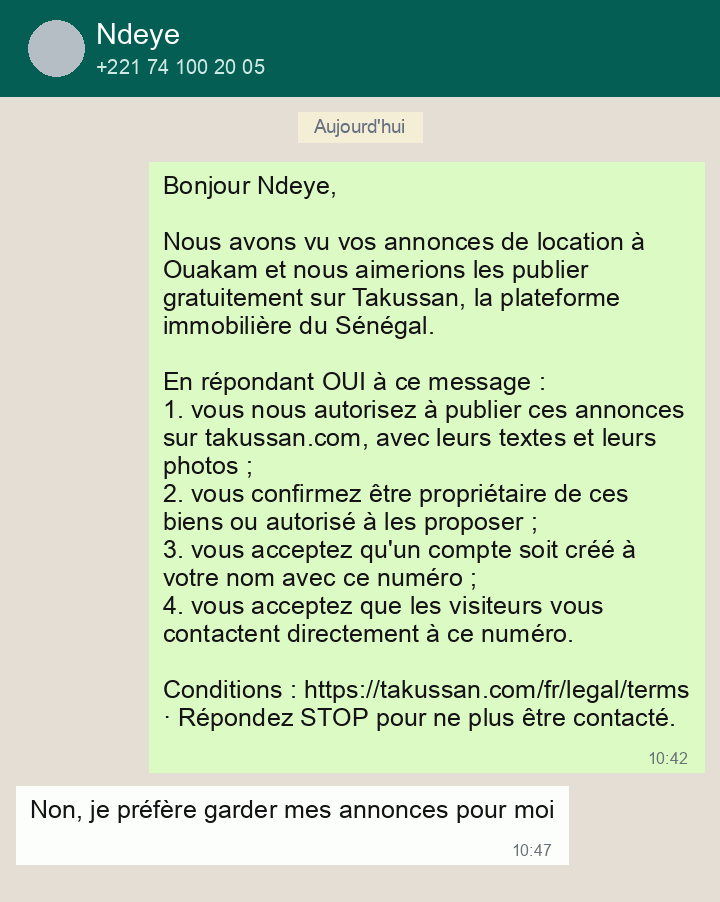
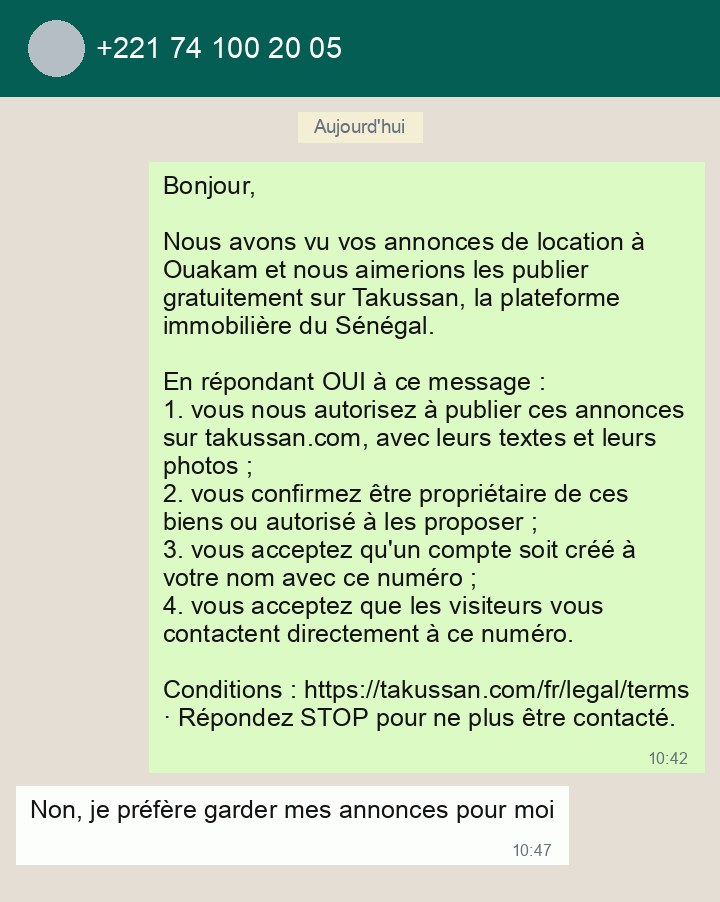
fix(api): Radar — le jeu d'évaluation envoie le numéro en E.164 compact comme le job, le cas 014 est ambigu, un cas sans nom d'annonceur (TCK-2388)

Changed region(s): [[0.1222, 0.031, 0.4889, 0.0931], [0.3361, 0.1863, 0.4583, 0.2173]]

diff --git a/takussan-api/resources/ai/evals/radar.verification_accord/render-captures.php b/takussan-api/resources/ai/evals/radar.verification_accord/render-captures.php
@@ -20,6 +20,7 @@
  * `*gras*` de WhatsApp sont rendus sans astérisques, comme l'écran de l'expéditeur.
  */
 
+use App\Ai\Agents\RadarConsentVerification;
 use App\Services\Radar\ConsentMessageComposer;
 use Illuminate\Contracts\Console\Kernel;
 
@@ -27,8 +28,6 @@ require __DIR__.'/../../../../vendor/autoload.php';
 $app = require __DIR__.'/../../../../bootstrap/app.php';
 $app->make(Kernel::class)->bootstrap();
 config(['app.frontend_url' => 'https://takussan.com']);
-
-use App\Ai\Agents\RadarConsentVerification;
 
 const WIDTH = 720;
 const MARGIN = 16;
@@ -55,11 +54,13 @@ if (! function_exists('imagettftext')) {
 $resume = 'vos annonces de location à Ouakam';
 
 /**
- * `shown` : le numéro que l'en-tête de la conversation affiche ; `phone` : celui que la vérification attend.
+ * `shown` : le numéro que l'en-tête de la conversation affiche ; `phone` : celui que la vérification attend, écrit
+ * lisible ici et envoyé SANS espaces (E.164 compact, comme `$advertiser->phone` dans le job). `name` null : un
+ * annonceur sans nom — l'en-tête n'affiche que le numéro, le message dit « Bonjour, » et l'entrée porte `inconnu`.
  * `message` : `full` (envoyé entier), `truncated` (capture coupée avant les clauses) ou `absent` (la capture ne montre
  * que la réponse). Attendus : ce que `fields.json` note.
  *
- * @var list<array{name: string, phone: string, shown?: string, message: string, reply: string, classification: string, number_matches: bool, clauses: list<int>}> $scenarios
+ * @var list<array{name: ?string, phone: string, shown?: string, message: string, reply: string, classification: string, number_matches: bool, clauses: list<int>}> $scenarios
  */
 $scenarios = [
     // Accord (3)
@@ -68,7 +69,7 @@ $scenarios = [
     ['name' => 'Mariama', 'phone' => '+221 74 100 20 03', 'message' => 'full', 'reply' => 'Ok vous pouvez', 'classification' => 'consent', 'number_matches' => true, 'clauses' => [1, 2, 3, 4]],
     // Refus (2)
     ['name' => 'Cheikh', 'phone' => '+221 74 100 20 04', 'message' => 'full', 'reply' => 'Non merci, je ne veux pas que mes annonces soient publiées.', 'classification' => 'refusal', 'number_matches' => true, 'clauses' => [1, 2, 3, 4]],
-    ['name' => 'Ndeye', 'phone' => '+221 74 100 20 05', 'message' => 'full', 'reply' => 'Non, je préfère garder mes annonces pour moi', 'classification' => 'refusal', 'number_matches' => true, 'clauses' => [1, 2, 3, 4]],
+    ['name' => null, 'phone' => '+221 74 100 20 05', 'message' => 'full', 'reply' => 'Non, je préfère garder mes annonces pour moi', 'classification' => 'refusal', 'number_matches' => true, 'clauses' => [1, 2, 3, 4]],
     // STOP (2)
     ['name' => 'Ousmane', 'phone' => '+221 74 100 20 06', 'message' => 'full', 'reply' => 'STOP', 'classification' => 'stop', 'number_matches' => true, 'clauses' => [1, 2, 3, 4]],
     ['name' => 'Aissatou', 'phone' => '+221 74 100 20 07', 'message' => 'full', 'reply' => 'Stop svp, ne me contactez plus', 'classification' => 'stop', 'number_matches' => true, 'clauses' => [1, 2, 3, 4]],
@@ -81,8 +82,8 @@ $scenarios = [
     // Numéro discordant (2) : l'en-tête montre un autre numéro, la réponse est « OUI »
     ['name' => 'Seynabou', 'phone' => '+221 74 100 20 12', 'shown' => '+221 74 900 30 12', 'message' => 'full', 'reply' => 'OUI', 'classification' => 'consent', 'number_matches' => false, 'clauses' => [1, 2, 3, 4]],
     ['name' => 'Pape', 'phone' => '+221 74 100 20 13', 'shown' => '+221 74 900 30 13', 'message' => 'full', 'reply' => "Ok d'accord", 'classification' => 'consent', 'number_matches' => false, 'clauses' => [1, 2, 3, 4]],
-    // Clauses absentes (2) : la capture ne montre que la réponse, ou un message coupé avant les clauses
-    ['name' => 'Binta', 'phone' => '+221 74 100 20 14', 'message' => 'absent', 'reply' => 'OUI', 'classification' => 'consent', 'number_matches' => true, 'clauses' => []],
+    // Clauses absentes (2) : la capture ne montre que la réponse (« OUI » à on ne sait quoi : `ambiguous`), ou un message coupé avant les clauses (le début du message est visible : `consent`)
+    ['name' => 'Binta', 'phone' => '+221 74 100 20 14', 'message' => 'absent', 'reply' => 'OUI', 'classification' => 'ambiguous', 'number_matches' => true, 'clauses' => []],
     ['name' => 'Alioune', 'phone' => '+221 74 100 20 15', 'message' => 'truncated', 'reply' => 'OUI', 'classification' => 'consent', 'number_matches' => true, 'clauses' => []],
 ];
 
@@ -131,7 +132,7 @@ $wrap = function (string $text, int $max) use ($width): array {
 foreach ($scenarios as $i => $scenario) {
     $n = sprintf('%03d', $i + 1);
     $first = $scenario['name'];
-    $sent = $composer->compose('fr', "Bonjour {$first},", $resume);
+    $sent = $composer->compose('fr', $first === null ? 'Bonjour,' : "Bonjour {$first},", $resume);
     $shown = $scenario['shown'] ?? $scenario['phone'];
 
     // Ce que la capture montre du message : entier, coupé avant les clauses (salutation et présentation), ou rien.
@@ -167,8 +168,12 @@ foreach ($scenarios as $i => $scenario) {
     imagefilledrectangle($image, 0, 0, WIDTH, $height, $chat);
     imagefilledrectangle($image, 0, 0, WIDTH, $header, $green);
     imagefilledellipse($image, 56, 48, 56, 56, $color(0xB0, 0xBE, 0xC5));
-    imagettftext($image, 22, 0, 96, 44, $white, $font, $scenario['name']);
-    imagettftext($image, 15, 0, 96, 74, $color(0xCF, 0xE9, 0xE5), $font, $shown);
+    if ($first === null) {
+        imagettftext($image, 22, 0, 96, 58, $white, $font, $shown);
+    } else {
+        imagettftext($image, 22, 0, 96, 44, $white, $font, $first);
+        imagettftext($image, 15, 0, 96, 74, $color(0xCF, 0xE9, 0xE5), $font, $shown);
+    }
 
     $label = "Aujourd'hui";
     imagefilledrectangle($image, (int) (WIDTH / 2 - 62), $header + 16, (int) (WIDTH / 2 + 62), $header + 46, $chip);
@@ -193,7 +198,7 @@ foreach ($scenarios as $i => $scenario) {
     imagepng($image, "{$dir}/captures/{$n}.png", 9);
 
     $case = [
-        'input' => RadarConsentVerification::input($sent, $scenario['phone'], $scenario['name'], $clauseCount),
+        'input' => RadarConsentVerification::input($sent, str_replace(' ', '', $scenario['phone']), $first, $clauseCount),
         'expected' => [
             'classification' => $scenario['classification'],
             'number_matches' => $scenario['number_matches'],

diff --git a/takussan-api/tests/Feature/Ai/RadarConsentVerificationEvalSetTest.php b/takussan-api/tests/Feature/Ai/RadarConsentVerificationEvalSetTest.php
@@ -97,7 +97,11 @@ class RadarConsentVerificationEvalSetTest extends TestCase
         $this->assertCount(15, array_unique(array_merge(...array_column($cases, 'attachments'))));
     }
 
-    /** L'entrée d'un cas est exactement celle du job : le message envoyé, un numéro `+221 74`, 4 clauses, un bloc de capture vide. */
+    /**
+     * L'entrée d'un cas est exactement celle du job : le message envoyé, le numéro en E.164 COMPACT (`$advertiser->phone`,
+     * sans espaces : l'en-tête de la capture, lui, l'affiche espacé), 4 clauses, un bloc de capture vide ; un cas porte
+     * un annonceur sans nom (`inconnu`).
+     */
     public function test_chaque_input_est_ce_que_le_job_envoie_avec_les_clauses_fixes_du_message(): void
     {
         $modele = (string) file_get_contents(resource_path('radar/clauses/accord.v1.fr.md'));
@@ -108,15 +112,18 @@ class RadarConsentVerificationEvalSetTest extends TestCase
         $this->assertCount(3, $fixes, 'le gabarit a trois segments fixes entre ses marqueurs');
         $this->assertSame(self::CLAUSES, $this->app->make(ConsentMessageComposer::class)->clauseCount());
 
+        $inconnus = 0;
         foreach ($this->cases() as $i => $case) {
-            $this->assertSame(1, preg_match('#^Message envoyé par Takussan \(texte exact\) :\n<<<\n(.*)\n>>>\nNuméro attendu : (\+221 74 \d{3} \d{2} \d{2})\nNom attendu : ([^\n]+)\nClauses numérotées : 1 à 4\n#s', $case['input'], $m), "cas {$i} : forme de l'entrée");
+            $this->assertSame(1, preg_match('#^Message envoyé par Takussan \(texte exact\) :\n<<<\n(.*)\n>>>\nNuméro attendu : (\+22174\d{7})\nNom attendu : ([^\n]+)\nClauses numérotées : 1 à 4\n#s', $case['input'], $m), "cas {$i} : forme de l'entrée");
             [, $message, $numero, $nom] = $m;
+            $inconnus += $nom === 'inconnu' ? 1 : 0;
             $this->assertSame(RadarConsentVerification::input($message, $numero, $nom, self::CLAUSES), $case['input'], "cas {$i} : pas la forme de RadarConsentVerification::input()");
             foreach ($fixes as $fixe) {
                 $this->assertStringContainsString($fixe, $message, "cas {$i} : un segment fixe de accord.v1.fr.md manque");
             }
             $this->assertStringNotContainsString('{', $message, "cas {$i} : un marqueur non rempli");
         }
+        $this->assertSame(1, $inconnus, 'un seul cas porte un annonceur sans nom');
     }
 
     public function test_les_attendus_ne_nomment_que_les_champs_notes_avec_des_valeurs_legales_et_couvrent_chaque_classement_et_chaque_discordance(): void

diff --git a/takussan-api/resources/ai/evals/radar.verification_accord/README.md b/takussan-api/resources/ai/evals/radar.verification_accord/README.md
@@ -21,12 +21,13 @@ ni un numéro que `scripts/check-ai-evals-pii.mjs` signale.
 | Cas | Scénario | Classement attendu | Numéro | Clauses |
 |---|---|---|---|---|
 | 001-003 | accord : « OUI », « Oui d'accord », « Ok vous pouvez » | `consent` | concordant | 1-4 |
-| 004-005 | refus | `refusal` | concordant | 1-4 |
+| 004-005 | refus (005 : annonceur sans nom, l'en-tête n'affiche que son numéro, l'entrée dit `inconnu`) | `refusal` | concordant | 1-4 |
 | 006-007 | STOP | `stop` | concordant | 1-4 |
 | 008-009 | question (« c'est gratuit ? », « qui êtes-vous ? ») | `question` | concordant | 1-4 |
 | 010-011 | ambigu (« peut-être… », « hmm, je vais voir ») | `ambiguous` | concordant | 1-4 |
-| 012-013 | numéro discordant : l'en-tête montre un autre numéro, la réponse est un « OUI » | `consent` | **discordant** | 1-4 |
-| 014-015 | clauses absentes : la capture ne montre que la réponse, ou un message coupé avant les clauses | `consent` | concordant | aucune |
+| 012-013 | numéro discordant : l'en-tête montre un autre numéro, la réponse est « OUI » (012) ou « Ok d'accord » (013) | `consent` | **discordant** | 1-4 |
+| 014 | clauses absentes : la capture ne montre que la réponse « OUI », sans le message de Takussan — un « OUI » à on ne sait quoi | `ambiguous` | concordant | aucune |
+| 015 | clauses absentes : le message est coupé avant les clauses, mais son début est visible — la réponse y répond | `consent` | concordant | aucune |
 
 Un cas est `{ "input", "expected", "attachments" }`. **`input` est exactement ce que le job envoie**
 (`VerifyRadarConsentReply`) : `RadarConsentVerification::input(<message envoyé>, <numéro attendu>, <nom attendu>, 4)`,
@@ -34,9 +35,9 @@ le message étant celui de `ConsentMessageComposer::compose('fr', …)` sur `acc
 jointes et se jouent sur le rôle `vision`, comme en production (`AttachmentsUseVision`).
 `RadarConsentVerificationEvalSetTest` le vérifie.
 
-⚠ Le job envoie le numéro attendu en E.164 sans espaces (`+22174…`) ; les cas l'écrivent `+221 74 …`, lisible, comme
-la capture l'affiche. Le modèle compare les deux, le code relit ensuite (`RadarConsentVerdict`) : ce jeu note la
-sortie BRUTE du modèle, avant cette relecture.
+Le numéro attendu est écrit comme le job l'envoie, en E.164 compact (`+22174…`, sans espaces) ; seule l'en-tête de la
+capture l'affiche espacé (`+221 74 …`), comme un téléphone. Le modèle doit donc lire l'un et le comparer à l'autre,
+comme en production. Ce jeu note la sortie BRUTE du modèle, avant la relecture du code (`RadarConsentVerdict`).
 
 ## Ce qui est noté
 
